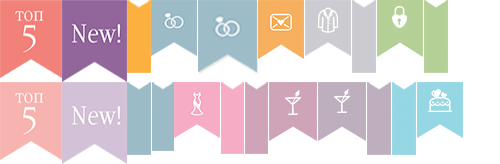
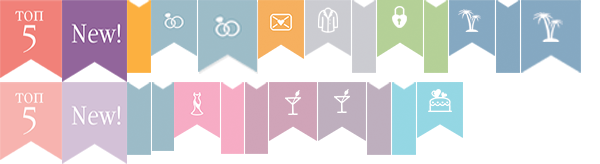
Sticker's fixes

diff --git a/css/style.css b/css/style.css
@@ -1295,7 +1295,7 @@ fieldset {
     background: url(../images/stickers.png) no-repeat -127px 0;
 }
 .photo-box .sticker.blue {
-    background-position: -439px -82px;
+    background-position: -496px 0;
 }
 .photo-box .sticker.dark-blue {
     background-position: -127px -82px;
@@ -1332,7 +1332,7 @@ fieldset {
     height: 59px;
 }
 .photo-box .sticker.blue-wide {
-    background-position: -392px -82px;
+    background-position: -449px 0;
 }
 .photo-box .sticker.dark-blue-wide {
     background-position: -151px 0;
@@ -2136,7 +2136,7 @@ img.smile {
     background: url(../images/stickers.png) no-repeat -198px 0;
 }
 .intro .sticker-travel {
-    background: url(../images/stickers.png) no-repeat -449px 0;
+    background: url(../images/stickers.png) no-repeat -521px 0;
 }
 /* products */
 .products {
